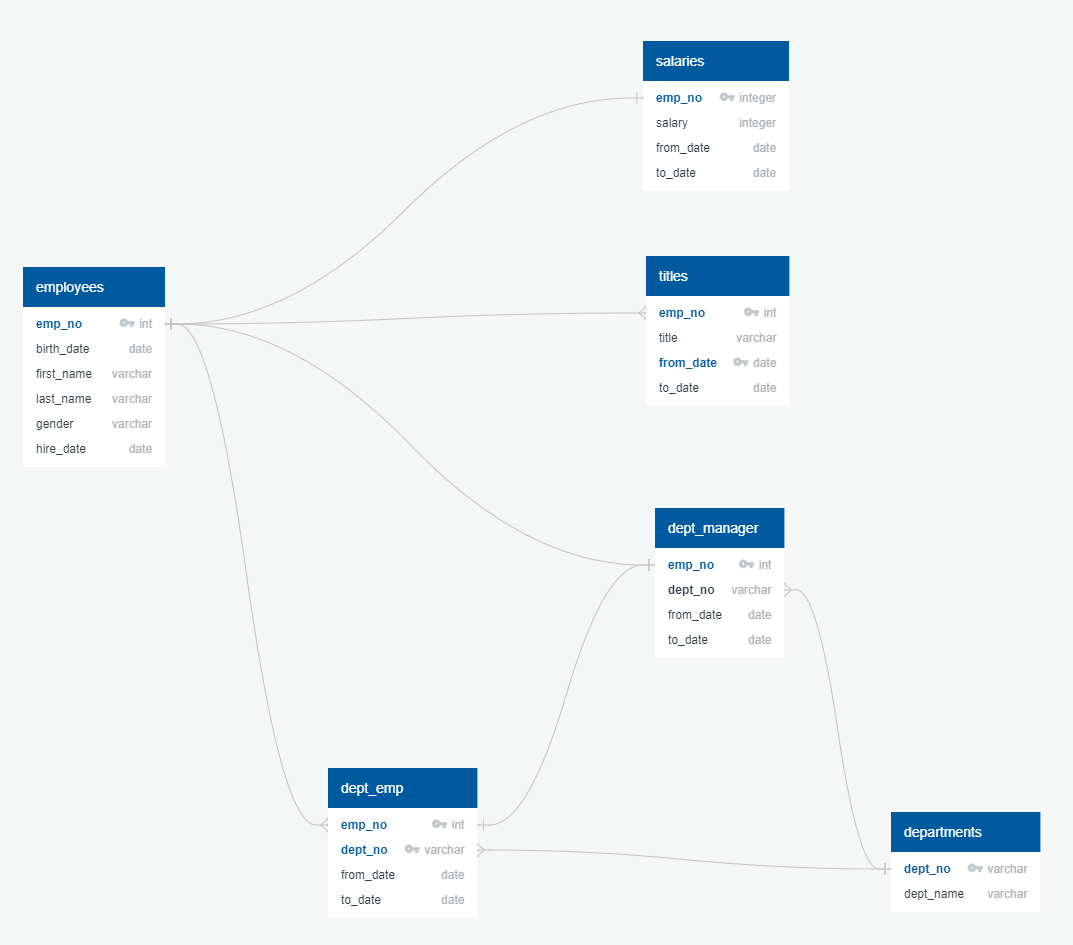
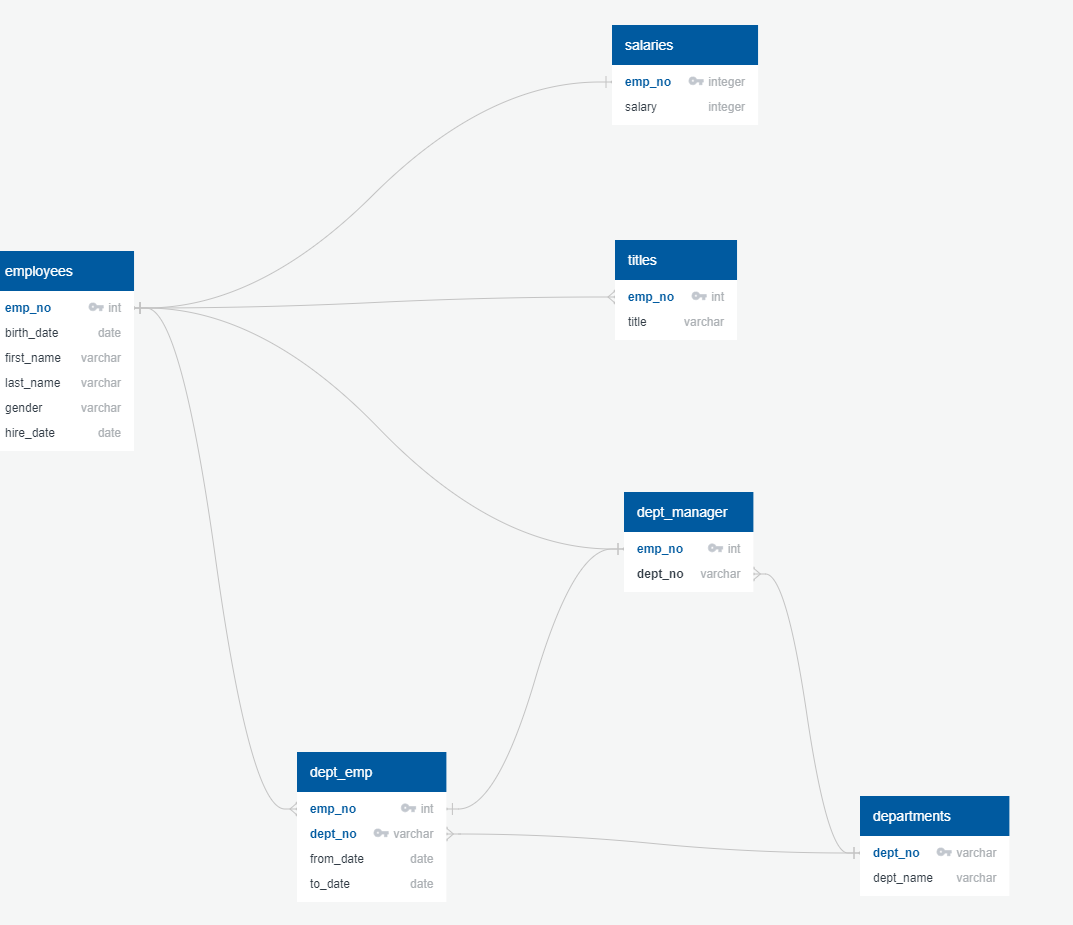
Adding DBD

diff --git a/sql-challenge/EmployeeSQL/QuickDBD_code.md b/sql-challenge/EmployeeSQL/QuickDBD_code.md
@@ -16,8 +16,7 @@ dept_manager
 -
 emp_no PK int FK - employees.emp_no
 dept_no varchar FK >- departments.dept_no
-from_date date
-to_date date
+
 
 employees
 -
@@ -32,13 +31,10 @@ salaries
 -
 emp_no PK integer FK - employees.emp_no
 salary integer
-from_date date
-to_date date
+
 
 titles
 -
 emp_no int PK FK >- employees.emp_no
 title varchar
-from_date date PK
-to_date date
 
